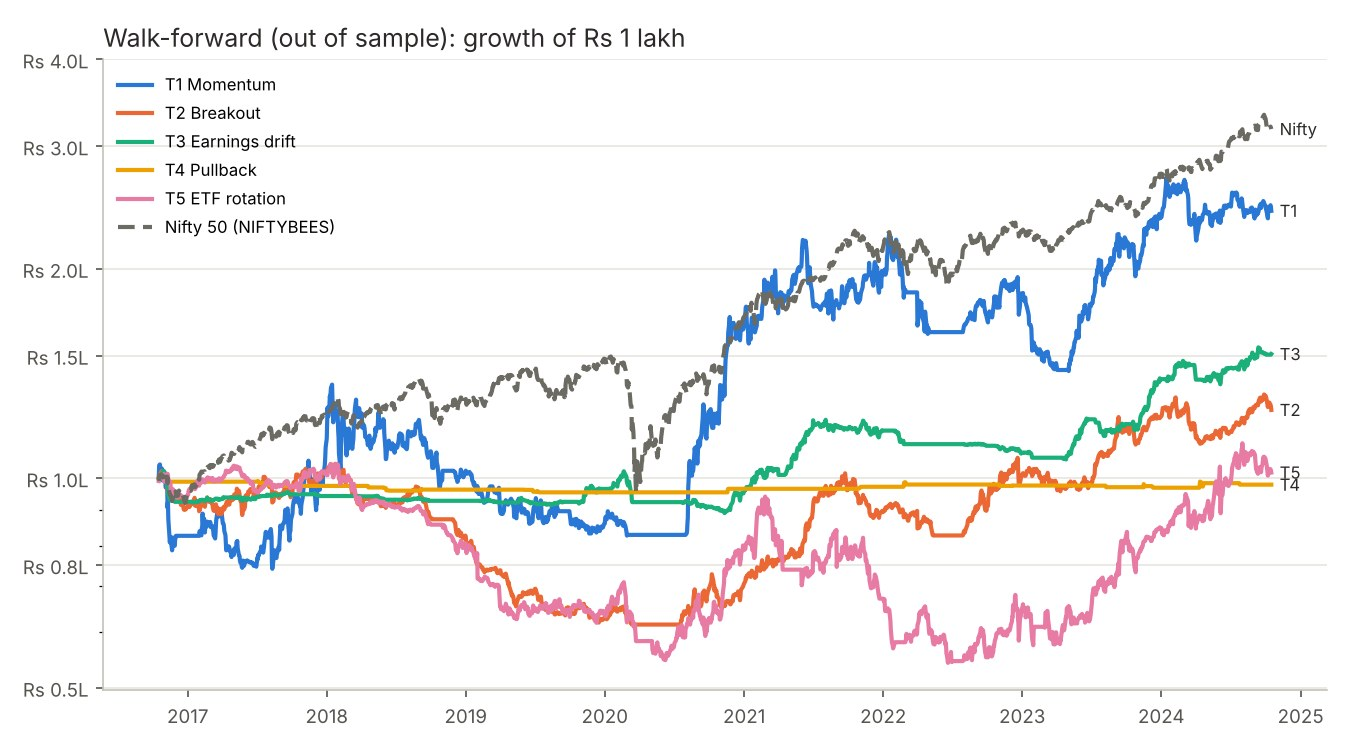
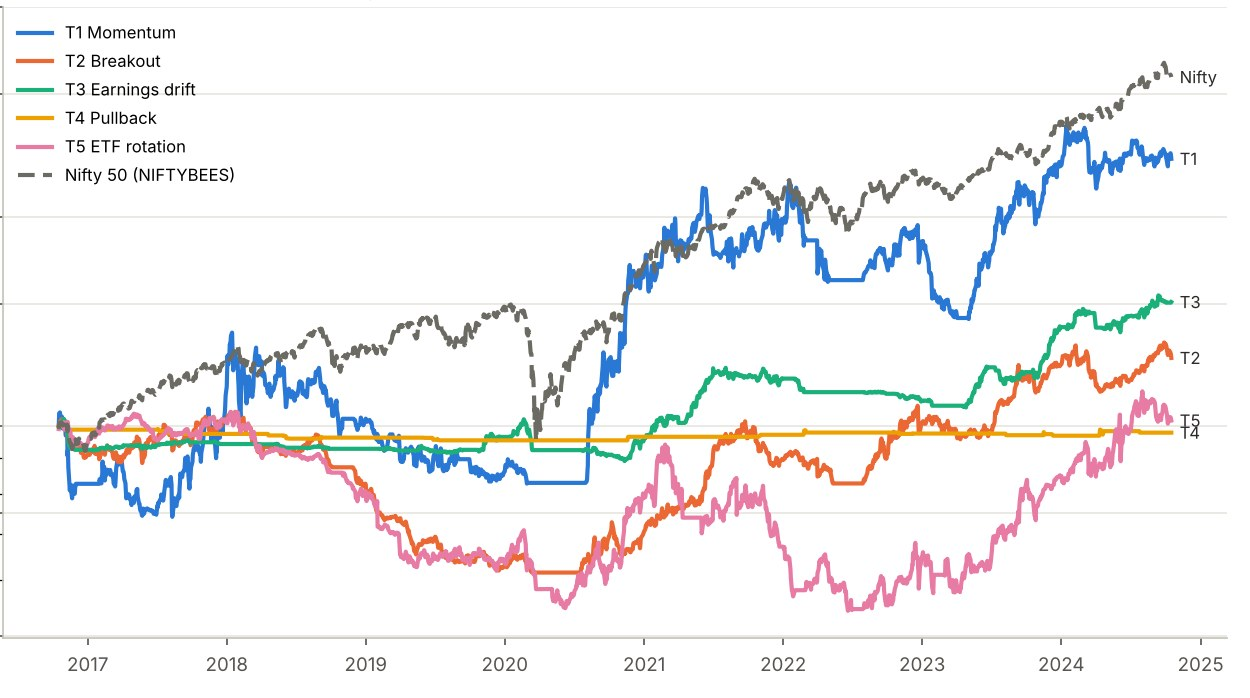
Remove personal information from project screens and docs
- Life Archivist: drop the patterns and Ask screens (they showed real
  routines and commute); cover and gallery use welcome, permissions and
  settings only
- Market research: research framing only; chart cropped to remove the
  title and rupee axis; no amounts, brokers or holdings
- Docs: neutral examples instead of real venues; Instagram account setup
  removed from the Games Pulse findings
- Diagram merchant label no longer hints at a city

Claude-Session: https://claude.ai/code/session_01LUd3Hue479Yg75LZxRGpfv

diff --git a/src/data/projects.js b/src/data/projects.js
@@ -56,8 +56,8 @@
 /** @type {Project[]} */
 export const projects = [
   {
-    // Source: ajaynss6/project_life (private). Screens from simulator testing,
-    // chosen to show no real places. Personal project: no numbers on purpose.
+    // Source: ajaynss6/project_life (private). Only screens with no personal
+    // data (no places, routines or people). Personal project: no numbers.
     slug: "life-archivist",
     visual: "ledger",
     status: "Personal project",
@@ -123,17 +123,15 @@ export const projects = [
       "Privacy Center and Face ID",
       "Encrypted backups",
     ],
-    cover: { src: "work/life-archivist/ask.jpg", alt: "Life Archivist screens: patterns, Ask your life and permissions", kind: "phone" },
+    cover: { src: "work/life-archivist/welcome.jpg", alt: "Life Archivist screens: permissions, welcome and tracking settings", kind: "phone" },
     coverStack: [
-      { src: "work/life-archivist/patterns.jpg", alt: "" },
-      { src: "work/life-archivist/ask.jpg", alt: "" },
       { src: "work/life-archivist/permissions.jpg", alt: "" },
+      { src: "work/life-archivist/welcome.jpg", alt: "" },
+      { src: "work/life-archivist/settings.jpg", alt: "" },
     ],
     gallery: [
       { src: "work/life-archivist/welcome.jpg", alt: "Welcome screen", kind: "phone", caption: "The promise in one line" },
       { src: "work/life-archivist/permissions.jpg", alt: "Permissions screen with a reason for each source", kind: "phone", caption: "Every permission explained, all optional" },
-      { src: "work/life-archivist/patterns.jpg", alt: "Explore patterns: where your time went", kind: "phone", caption: "Patterns from your own days" },
-      { src: "work/life-archivist/ask.jpg", alt: "Ask your life: answers with how they were read", kind: "phone", caption: "Answers that show their source" },
       { src: "work/life-archivist/settings.jpg", alt: "Tracking settings", kind: "phone", caption: "You decide what is recorded" },
     ],
     docs: [{ title: "Product requirements", slug: "life-archivist-prd", kind: "PRD" }],
@@ -421,53 +419,54 @@ export const projects = [
     repo: { url: "https://github.com/ajaynss6/heyj-ai", public: false },
   },
   {
-    // Source: ajaynss6/trading-tool (private). No amounts, brokers or holdings.
+    // Source: ajaynss6/trading-tool (private). Research framing only: no
+    // amounts, brokers, holdings or personal trading.
     slug: "market-research",
     visual: "monetization",
     status: "Personal project",
     title: "Market Research Engine: Letting the Data Say No",
-    context: "Data · Experimentation · Personal finance",
+    context: "Data · Experimentation · Indian markets",
     description:
-      "A personal research system for Indian markets that tests trading strategies honestly against simply holding the index, watches a long-term portfolio's health and sends one daily brief. Its most valuable output so far was a no.",
+      "A research system that tests trading strategies for Indian markets honestly against simply holding the index, and sends one short daily brief. Its most valuable output so far was a no.",
     tags: ["Experimentation", "Backtesting", "Data", "Automation"],
     value:
-      "Protects real money by making every strategy prove itself on data it has never seen before a rupee is risked.",
+      "Makes every strategy prove itself on data it has never seen, before anyone acts on it.",
     company: "Personal project",
     role: "Owner and builder",
     period: "2026",
     team: "Solo, AI-assisted build",
-    audience: "A retail investor who wants rules and evidence instead of tips.",
+    audience: "Retail investors who want rules and evidence instead of tips.",
     needs: [
       "Know whether a strategy beats simply holding the index, after costs and tax.",
-      "Catch portfolio problems before they get expensive.",
+      "Trust that a backtest is not just fitted to the past.",
       "Get one short daily brief instead of noise.",
     ],
     problem:
-      "Retail traders act on tips and on backtests that quietly overfit. Strategies that look great on past data often fail on new data, and the losses are real money.",
+      "Retail traders act on tips and on backtests that quietly overfit. Strategies that look great on past data often fail on new data, and the losses are real.",
     approach: [
-      "Set the rules before testing: success meant beating the index after all costs and tax, with a hard limit on how far it may fall from its peak.",
+      "Set the bar before testing: beat the index after all costs and tax, within a hard limit on how far a strategy may fall from its peak.",
       "Tested several strategy families with walk-forward and holdout periods, so every result comes from data the strategy never saw.",
-      "Kept it advice only: the system recommends, a person decides.",
-      "Built the portfolio side as tracking and health checks, with no stock picks.",
+      "Kept the output advisory: the system recommends, a person decides.",
+      "Wrapped it in a daily brief: market regime and system health in one message.",
     ],
     decisions: [
       {
         title: "Gates before go-live",
-        body: "No strategy trades without first passing gates agreed in advance, on out-of-sample data.",
+        body: "No strategy is acted on without first passing gates agreed in advance, on out-of-sample data.",
       },
       {
         title: "The data said no",
-        body: "In the walk-forward test none of the strategies beat holding the index. So the money stays out of them, with paper trading until a scheduled review. Shipping nothing was the right call.",
+        body: "In the walk-forward test none of the strategies beat holding the index, so none went live. Paper trading continues until a scheduled review. Shipping nothing was the right call.",
       },
       {
         title: "Advice, not automation",
-        body: "Orders are placed by hand. Automation would have scaled mistakes faster than it scaled returns.",
+        body: "Automation would scale mistakes faster than it scales returns, so a person stays in the loop.",
       },
     ],
-    shipped: ["Strategy research and backtests", "Portfolio tracking and health checks", "Daily brief", "Dashboard"],
+    shipped: ["Strategy research and backtests", "Walk-forward and holdout testing", "Daily brief", "Dashboard"],
     cover: { src: "work/market-research/walk-forward.jpg", alt: "Walk-forward results: no strategy beat the index", kind: "chart" },
     gallery: [
-      { src: "work/market-research/walk-forward.jpg", alt: "Walk-forward out-of-sample growth of each strategy against the Nifty 50", kind: "chart", caption: "Out of sample, the index (dashed) beat every strategy. The answer was no." },
+      { src: "work/market-research/walk-forward.jpg", alt: "Walk-forward out-of-sample results of five strategies against the Nifty 50", kind: "chart", caption: "Out of sample, the index (dashed) beat every strategy. The answer was no." },
     ],
     repo: { url: "https://github.com/ajaynss6/trading-tool", public: false },
   },

diff --git a/src/pages/docs/life-archivist-prd.md b/src/pages/docs/life-archivist-prd.md
@@ -120,7 +120,7 @@ Spec: 5 tabs (Today, Map, Search, Insights, Me). **Built:** Today, Map, Ask, Ins
 | D45 | Same route, not same distance | Comparing modes over equal distances on different roads misleads; trips are compared between the same two places, direction included |
 | D41 | Workouts suggest, never label | A workout during an unnamed stay offers the place where that activity usually happens as the one-tap answer (ask, don't guess, D11) |
 | D46 | Journal first, three tabs: Journal, Explore, Ask (search tab); Me behind an avatar | **Built in v0.9, device tests pending.** Founder decision, from the UX study. Revises D24. The day in words is the product; Map, Places, People and Insights move into Explore, nothing is removed |
-| D47 | Guess visibly, confirm in one tap | **Built in v0.9, device tests pending.** Founder decision. Bends D11: unconfirmed suggestions appear in the journal in italics ("maybe Third Wave Coffee"). Nothing becomes a label without a tap, so uncertain inference is never stated as fact |
+| D47 | Guess visibly, confirm in one tap | **Built in v0.9, device tests pending.** Founder decision. Bends D11: unconfirmed suggestions appear in the journal in italics ("maybe a coffee shop"). Nothing becomes a label without a tap, so uncertain inference is never stated as fact |
 | D48 | Nearby place names from Apple Maps, opt-in | **Built in v0.9, device tests pending.** Founder decision. Amends D10: typing names is the biggest tagging cost. Off by default; one location per new spot, only when the user is asked about it, cached per spot; names are offered, never applied |
 | D49 | Questions during a visit arrive silently | **Built in v0.9, device tests pending.** Founder decision. Revises D26: same timing (15 minutes into a 2nd visit) and cap of 4, but passive interruption level: no sound, no screen wake |
 | D50 | Unrecorded gaps are questions only when over 1 hour | **Built in v0.9, device tests pending.** Founder decision. Shorter gaps are muted rows and do not count in the review. No auto-fill: A2 (never guess across missing data) holds |
@@ -146,4 +146,4 @@ Email, messaging, browser history, screen time, finance, cloud sync, multi-user,
 ## Open questions
 1. Does region/visit relaunch survive force-quit on your iPhone and iOS version? (T5)
 2. Real battery cost of Balanced and Detailed on your commute? (T6)
-3. Is 100 m stay clustering right for your places (e.g. table tennis academy vs nearby shops)? (T7)
+3. Is 100 m stay clustering right for your places (for example a venue next to a row of shops)? (T7)

diff --git a/src/pages/docs/mobile-games-pulse-data-spike.md b/src/pages/docs/mobile-games-pulse-data-spike.md
@@ -38,14 +38,6 @@ Run date: 2026-10-20, from a cloud sandbox (datacenter IP, similar to GitHub Act
 6. **The review mean skews positive.** 5-star reviews make up 72 to 76% of the samples. Week-over-week changes will be small, so most weeks the rating shift slide will show a change of about 0.1 to 0.3, not "4.4 to 3.8".
 7. **Card and casino-style games rank high in India** (for example Teen Patti at #9). Consider a genre denylist option (Casino, Card). It's empty by default; your call.
 
-## Instagram (Meta docs, read 2026-10-20)
-
-- Two options: Instagram Login (`graph.instagram.com`, scopes `instagram_business_basic` and `instagram_business_content_publish`) or Facebook Login (needs a Page).
-- **Instagram Login fits your setup** (Business account, no Page). Its token table lists no Page token.
-- Carousel: one item container per image (`is_carousel_item=true`), then a `CAROUSEL` container with `children`, then `media_publish`. Up to 20 items.
-- Images must be JPEG at a public URL. Cropping follows the first image's aspect ratio, so all 4 slides are 4:5.
-- Rate limit: the docs say both 100 and 50 posts per 24 h. Either is far above 1 a week.
-
 ## OpenRouter models (live prices, per 1M tokens)
 
 | Role | Model | Input | Output | Why |
